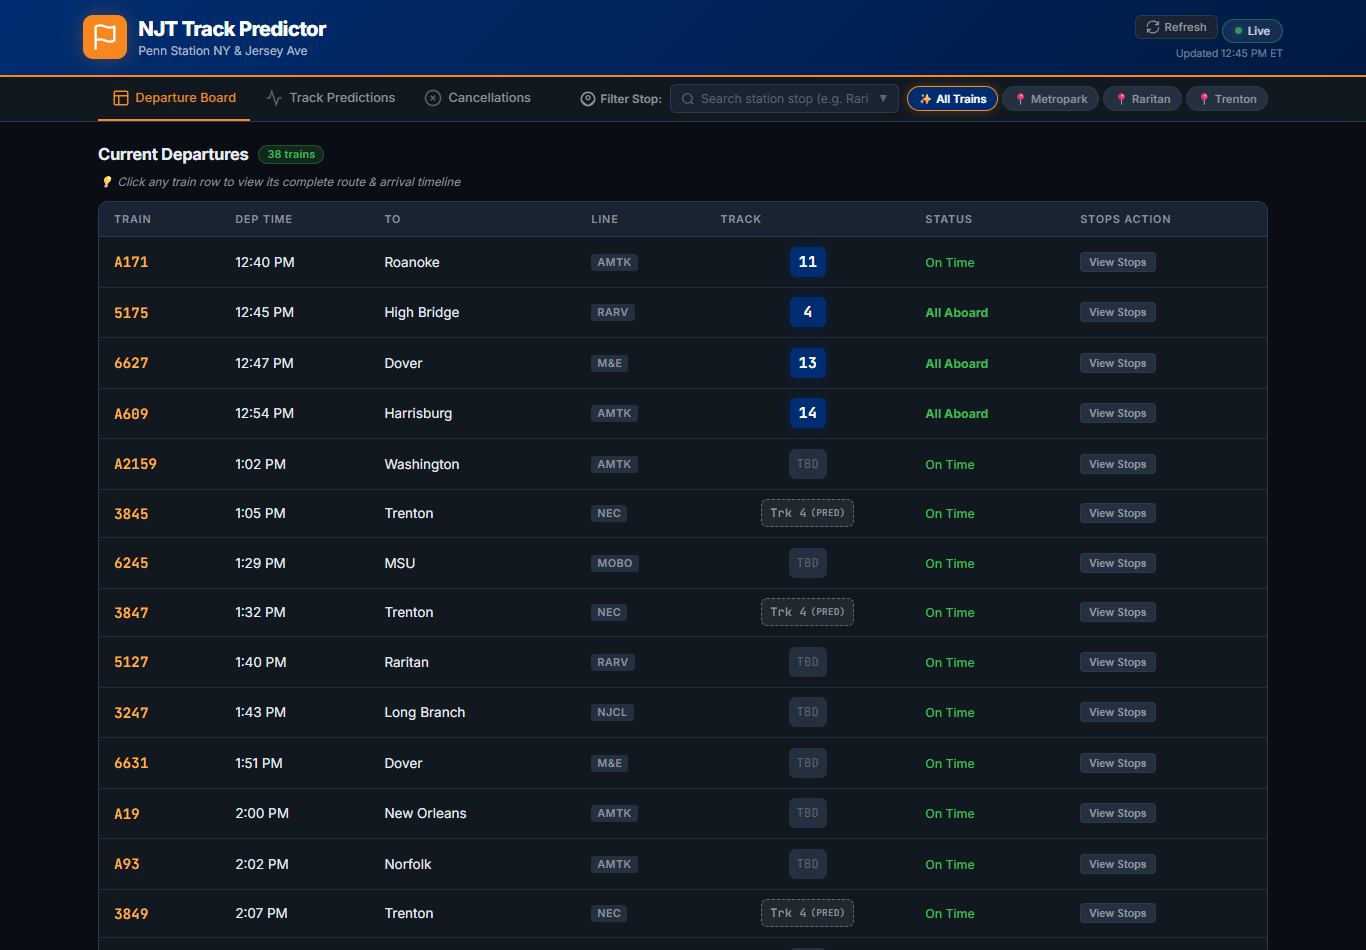
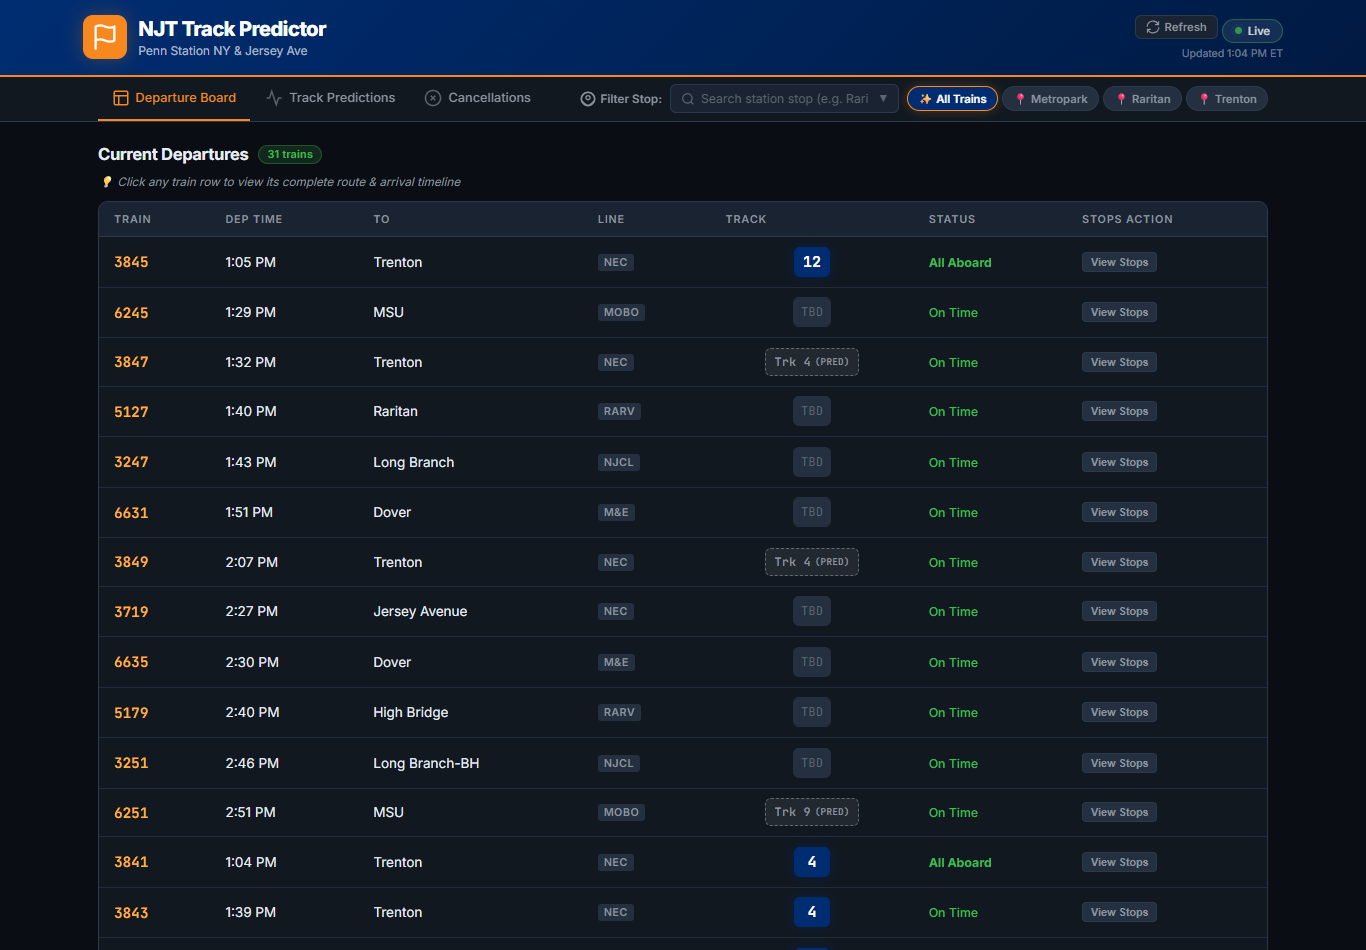
Filter Amtrak trains from departure board display while using them for in-use track prediction

diff --git a/dashboard/app.js b/dashboard/app.js
@@ -661,6 +661,17 @@
     }
   }
 
+  function isAmtrakTrain(item) {
+    if (!item) return false;
+    const line = (item.line || '').toUpperCase().trim();
+    const trainNum = String(item.trainNumber || '').trim();
+    const carrier = (item.carrier || '').toLowerCase();
+
+    return line === 'AMTK' || line === 'AMTRAK' || line === 'ACELA' || line === 'NER' ||
+           trainNum.startsWith('A') || trainNum.startsWith('a') ||
+           carrier.includes('amtrak');
+  }
+
   // ─── Render All ────────────────────────────────────────────
   function renderAll(data) {
     rawData = data;
@@ -683,10 +694,18 @@
       thDeptArr.style.display = 'none';
     }
 
-    // Apply stop filter
-    const filteredBoard = (data.currentBoard || []).filter(dep => trainStopsAt(dep, selectedStop));
-    const filteredDeparted = (data.recentlyDeparted || []).filter(dep => trainStopsAt(dep, selectedStop));
-    const filteredPreds = (data.predictions || []).filter(pred => trainStopsAt(pred, selectedStop));
+    // Filter out Amtrak trains from display (they remain in backend to detect occupied tracks for predictions)
+    const filteredBoard = (data.currentBoard || [])
+      .filter(dep => !isAmtrakTrain(dep))
+      .filter(dep => trainStopsAt(dep, selectedStop));
+
+    const filteredDeparted = (data.recentlyDeparted || [])
+      .filter(dep => !isAmtrakTrain(dep))
+      .filter(dep => trainStopsAt(dep, selectedStop));
+
+    const filteredPreds = (data.predictions || [])
+      .filter(pred => !isAmtrakTrain(pred))
+      .filter(pred => trainStopsAt(pred, selectedStop));
 
     renderBoard(filteredBoard, filteredDeparted, data.activeStation, data.predictions || []);
     renderPredictions(filteredPreds, data.activeStation);
